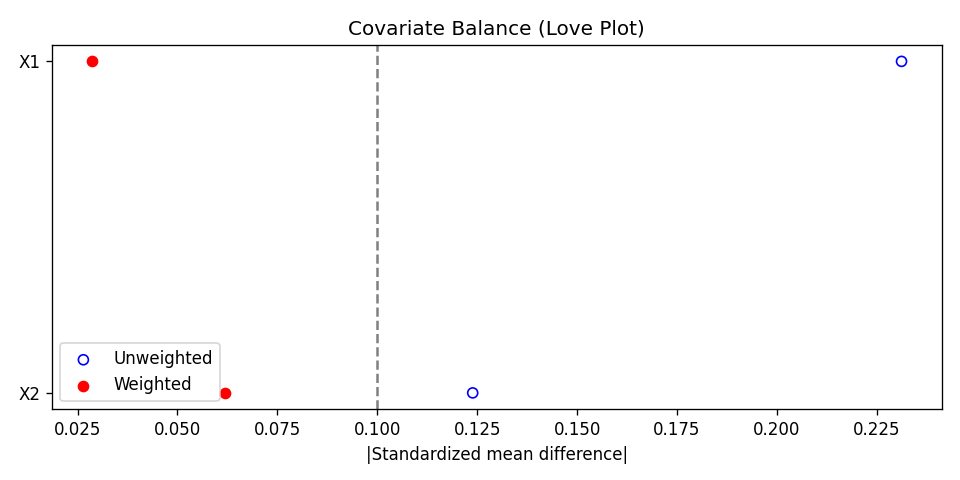
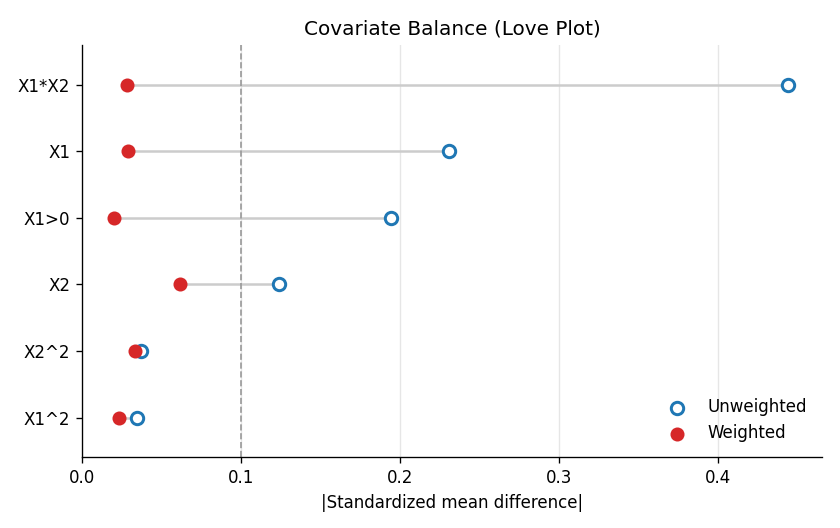
style: polish diagnostics plots and regenerate README figures (#125)
- Love plot: connecting segments per covariate, largest imbalance on top,
  colorblind-validated pair (#1F77B4/#D62728), recessive x-grid, despined,
  height scales with covariate count
- weight distribution: default bins span to the 99.5th percentile so the
  tail no longer squashes the bulk; same validated colors via
  plot_hist_by_groups defaults
- README Love plot regenerated on six covariates (derived features);
  notebook matches

Changed region(s): [[0.0, 0.0312, 0.9905, 0.9688], [0.1857, 0.5, 0.3405, 0.5625]]

diff --git a/CausalEstimate/vis/plotting.py b/CausalEstimate/vis/plotting.py
@@ -90,7 +90,7 @@ def plot_hist_by_groups(
     xlabel: str = None,
     title: str = None,
     alpha: float = 0.5,
-    colors=("b", "r"),
+    colors=("#1F77B4", "#D62728"),
     fig: plt.Figure = None,
     ax: plt.Axes = None,
     figsize: tuple = (10, 6),
@@ -416,7 +416,9 @@ def plot_weight_dist(
         clip_percentile=clip_percentile,
     )
     if bin_edges is None:
-        w_min, w_max = weights.min(), weights.max()
+        # span to the 99.5th percentile so a few extreme weights don't
+        # squash the bulk of the distribution into a sliver
+        w_min, w_max = weights.min(), np.percentile(weights, 99.5)
         if w_min == w_max:  # constant weights: avoid zero-width bins
             w_min, w_max = w_min - 0.5, w_max + 0.5
         bin_edges = np.linspace(w_min, w_max, 51)
@@ -444,20 +446,21 @@ def plot_love(
     threshold: float = 0.1,
     fig: plt.Figure = None,
     ax: plt.Axes = None,
-    figsize: tuple = (8, 10),
+    figsize: tuple = None,
 ) -> Tuple[plt.Figure, plt.Axes]:
     """
     Love plot of covariate balance from a compute_balance_table result.
 
     Shows |SMD| per covariate before (open circles) and after (filled circles)
-    IPW weighting, with a dashed line at the balance threshold. Covariates are
-    sorted by unweighted |SMD|; rows with undefined (NaN) SMDs are dropped
-    with a warning.
+    IPW weighting, connected per covariate, with a dashed line at the balance
+    threshold. Covariates are sorted by unweighted |SMD| (largest at the top);
+    rows with undefined (NaN) SMDs are dropped with a warning.
 
     Args:
         balance_table: Output of CausalEstimate.diagnostics.compute_balance_table.
         threshold: |SMD| bound drawn as the balance reference line.
-        fig, ax, figsize: As in plot_hist_by_groups.
+        fig, ax: As in plot_hist_by_groups.
+        figsize: Defaults to a height scaled to the number of covariates.
 
     Returns:
         (fig, ax)
@@ -474,6 +477,8 @@ def plot_love(
         raise ValueError("No covariates with a defined SMD to plot.")
     table = table.sort_values(SMD_UNWEIGHTED_COL)
 
+    if figsize is None:
+        figsize = (7, max(2.2, 0.5 * len(table) + 1.4))
     if fig is None and ax is None:
         fig, ax = plt.subplots(figsize=figsize)
     elif ax is None:
@@ -482,18 +487,38 @@ def plot_love(
         raise ValueError("fig and ax cannot both be None")
 
     y = np.arange(len(table))
+    for yi, (u, w) in enumerate(
+        zip(table[SMD_UNWEIGHTED_COL], table[SMD_WEIGHTED_COL])
+    ):
+        ax.plot([u, w], [yi, yi], color="0.8", linewidth=1.5, zorder=1)
     ax.scatter(
         table[SMD_UNWEIGHTED_COL],
         y,
-        facecolors="none",
-        edgecolors="b",
+        s=55,
+        facecolors="white",
+        edgecolors="#1F77B4",
+        linewidths=1.8,
         label="Unweighted",
+        zorder=2,
     )
-    ax.scatter(table[SMD_WEIGHTED_COL], y, color="r", label="Weighted")
-    ax.axvline(threshold, linestyle="--", color="gray")
+    ax.scatter(
+        table[SMD_WEIGHTED_COL],
+        y,
+        s=55,
+        color="#D62728",
+        label="Weighted",
+        zorder=2,
+    )
+    ax.axvline(threshold, linestyle="--", color="0.6", linewidth=1)
     ax.set_yticks(y)
     ax.set_yticklabels(table.index)
+    ax.set_xlim(left=0)
+    ax.set_ylim(-0.6, len(table) - 0.4)
+    ax.xaxis.grid(True, color="0.9", linewidth=0.8)
+    ax.set_axisbelow(True)
+    for side in ("top", "right"):
+        ax.spines[side].set_visible(False)
     ax.set_xlabel("|Standardized mean difference|")
     ax.set_title("Covariate Balance (Love Plot)")
-    ax.legend()
+    ax.legend(frameon=False, loc="lower right")
     return fig, ax
